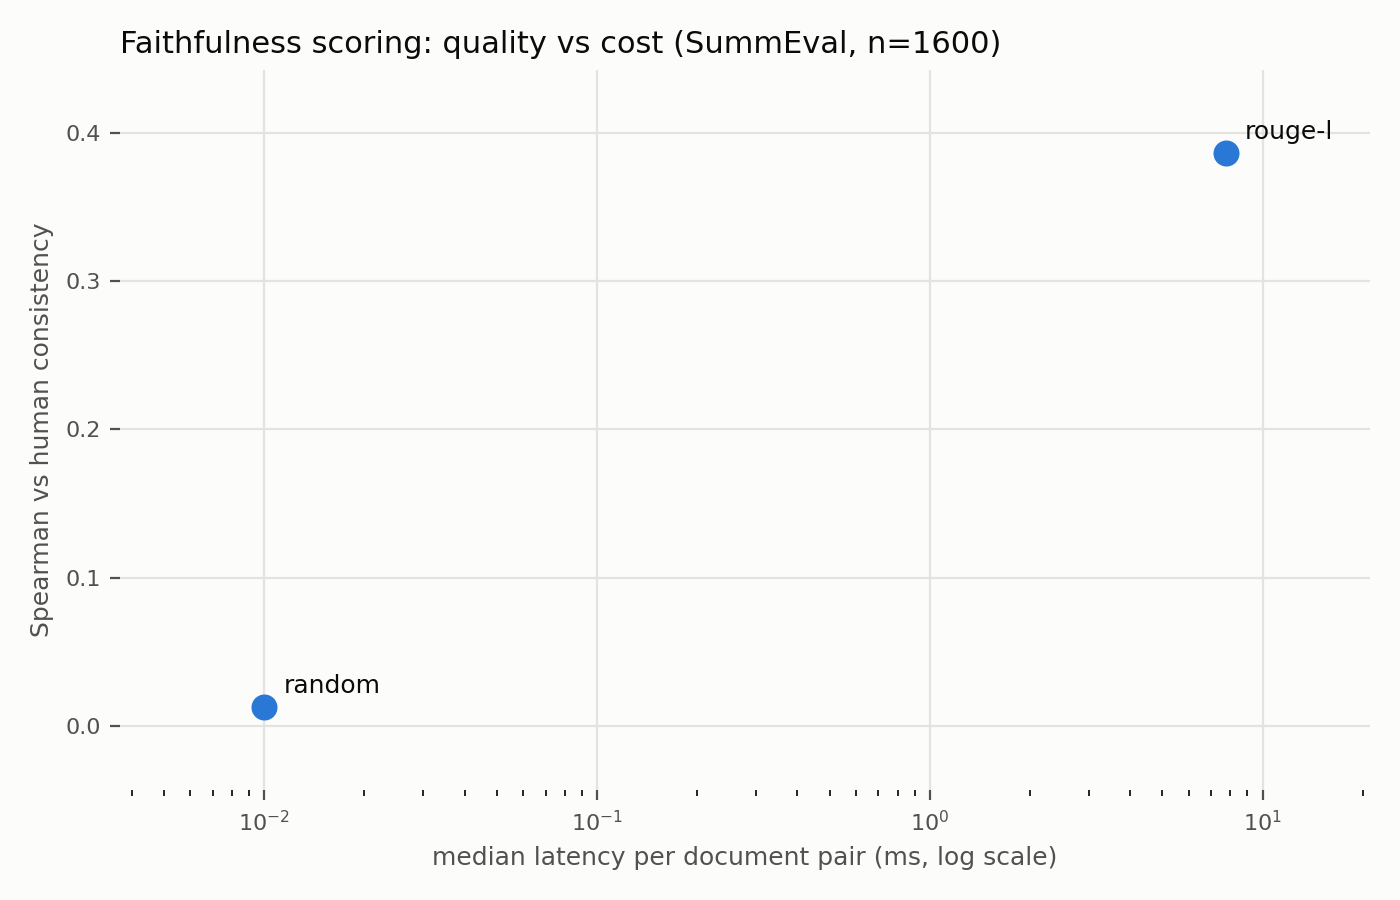
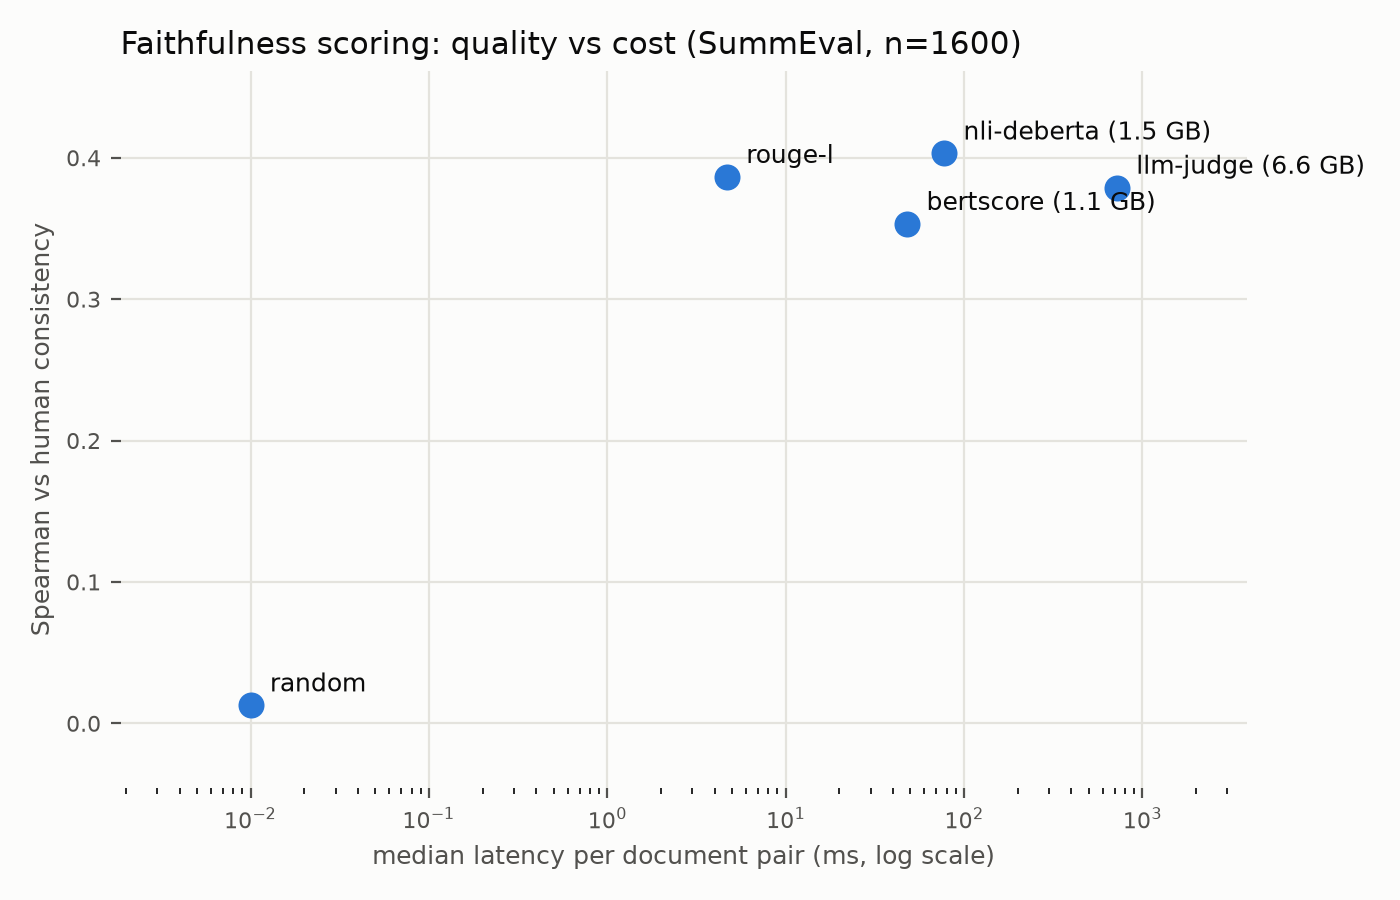
docs: fill README results table from full GPU run

diff --git a/README.md b/README.md
@@ -14,24 +14,23 @@ public models, and public tooling.
 
 ## Results
 
-**Status: partial.** The CPU scorers below were run on the full benchmark
-(1600 pairs). The model-based scorers (`bertscore`, `nli-deberta`,
-`llm-judge`) are implemented and smoke-tested but their numbers are pending
-a GPU run; this table and the plot regenerate automatically once that run
-completes (see *Reproducing*).
+Full SummEval run (n=1600) on a local NVIDIA RTX 4000 Ada (~12 GB). The LLM
+judge auto-selected `Qwen/Qwen2.5-3B-Instruct`.
 
 | scorer | spearman | balanced acc | ROC-AUC | median ms/doc | peak VRAM (GB) |
 |---|---|---|---|---|---|
-| random | 0.013 | 0.516 | 0.506 | 0.0 | n/a |
-| rouge-l | 0.386 | 0.687 | 0.705 | 7.7 | n/a |
-| bertscore | *pending* | *pending* | *pending* | *pending* | *pending* |
-| nli-deberta | *pending* | *pending* | *pending* | *pending* | *pending* |
-| llm-judge | *pending* | *pending* | *pending* | *pending* | *pending* |
+| random | 0.013 | 0.516 | 0.506 | 0.0 | 0.0 |
+| rouge-l | 0.386 | 0.687 | 0.705 | 4.7 | 0.0 |
+| bertscore | 0.353 | 0.710 | 0.750 | 48.0 | 1.1 |
+| nli-deberta | 0.403 | 0.743 | 0.786 | 77.3 | 1.5 |
+| llm-judge | 0.379 | 0.704 | 0.771 | 719.2 | 6.6 |
 
 ![quality vs cost](results.png)
 
-CPU-only numbers above were measured on a cloud VM (no GPU); latency columns
-are only comparable within a single machine's run.
+NLI wins on Spearman, balanced accuracy, and ROC-AUC while using ~4× less
+VRAM and ~9× less latency than the local LLM judge. BERTScore underperforms
+ROUGE-L on Spearman despite higher AUC cost. Latencies are only comparable
+within a single machine's run.
 
 ## Benchmark
 
